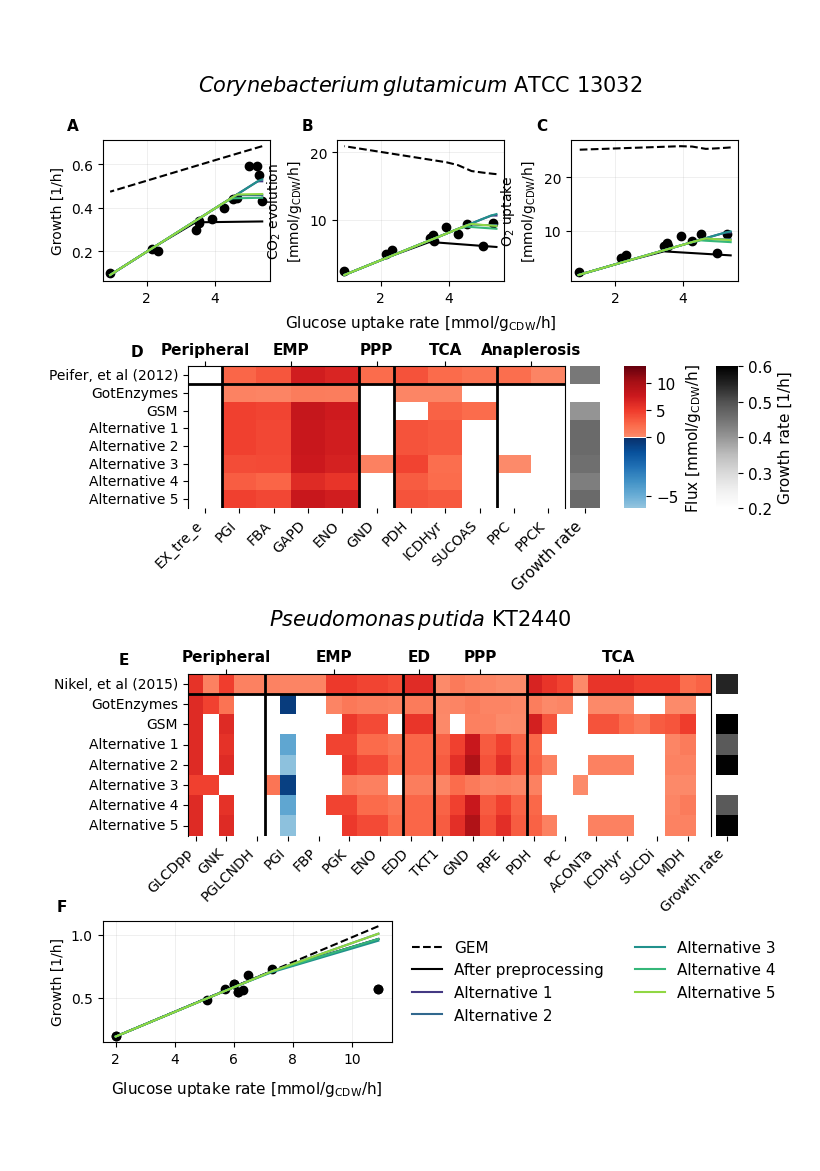
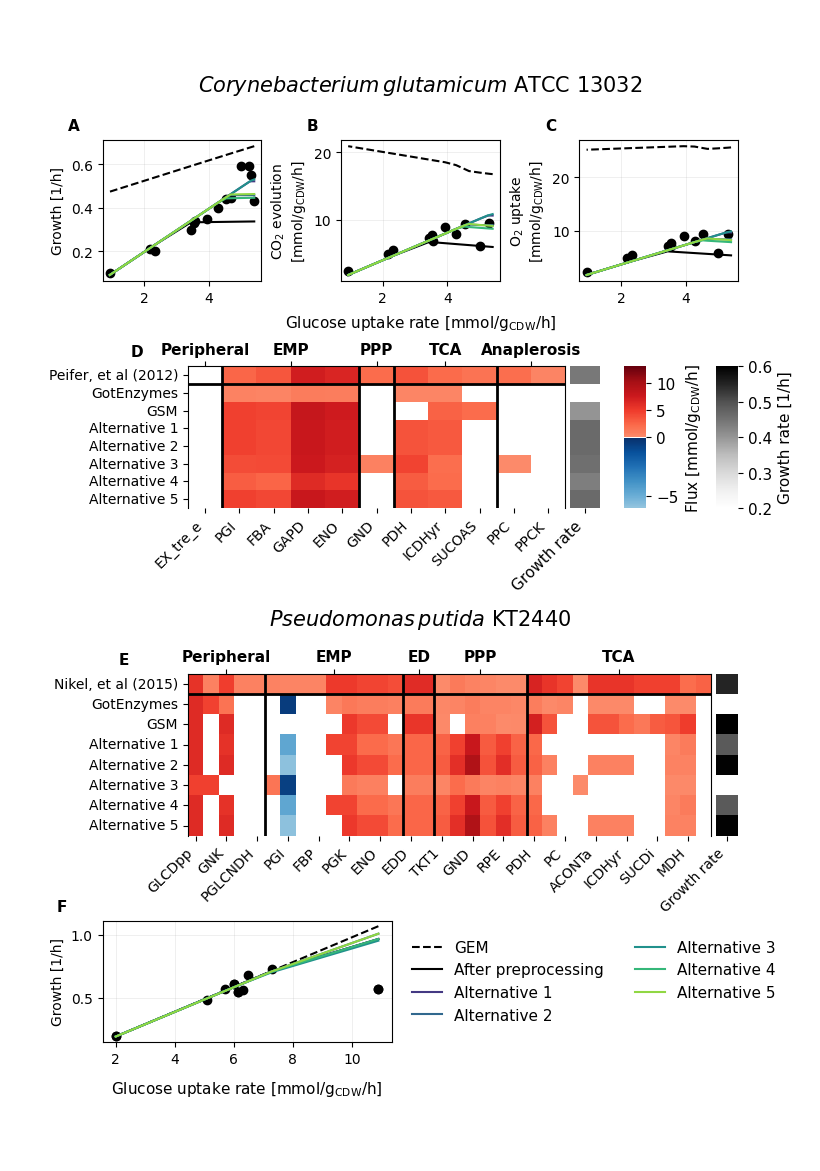
updated figures

diff --git a/Figures/Scripts/Figure2_alternative_pams.py b/Figures/Scripts/Figure2_alternative_pams.py
@@ -41,9 +41,9 @@ def recreate_progress_plot(best_indiv_files:list[str],
                            enzyme_sector_update:bool = True
                            ):
     rxn_mapper = {'BIOMASS_Ec_iML1515_core_75p37M': 'Growth rate [1/h]',
-                  'EX_co2_e': r'CO$_2$ excretion',
-                  'EX_o2_e': 'rO$_2$ uptake',
-                  'EX_ac_e': 'Acetate excretion'}
+                  'EX_co2_e': r'CO$_2$ evolution',
+                  'EX_o2_e': r'O$_2$ uptake',
+                  'EX_ac_e': 'Acetate secretion'}
     j=0
 
     if pamparam_setup is None:

diff --git a/Figures/Scripts/Figure5_alternative_models.py b/Figures/Scripts/Figure5_alternative_models.py
@@ -107,7 +107,7 @@ def main():
     gs_main_bottom = gridspec.GridSpecFromSubplotSpec(2, 1, height_ratios=[4,3], hspace=0.6, subplot_spec=gs_main[1])
 
     gs_cgb_fluxes = gridspec.GridSpecFromSubplotSpec(1, 3, subplot_spec=gs_main_top[0],
-                                                    wspace=0.45)
+                                                    wspace=0.5)
 
     gs_cgb_heatmap = gridspec.GridSpecFromSubplotSpec(1, 2, subplot_spec=gs_main_top[1],width_ratios=[1,20])[1]
     # gs_cgb = gridspec.GridSpecFromSubplotSpec(1, 1, subplot_spec=gs_main[1])
